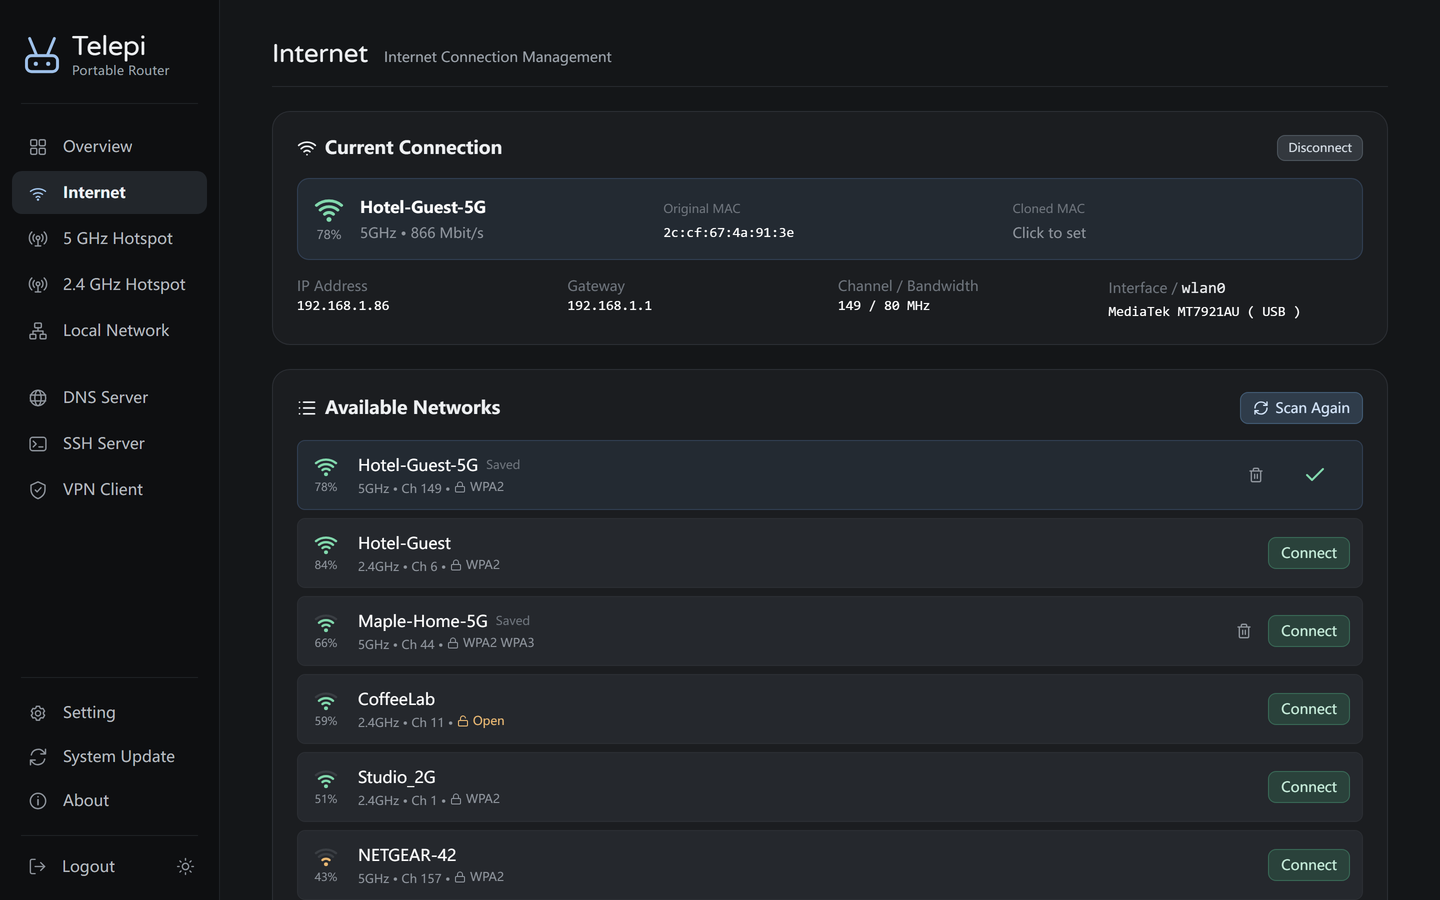
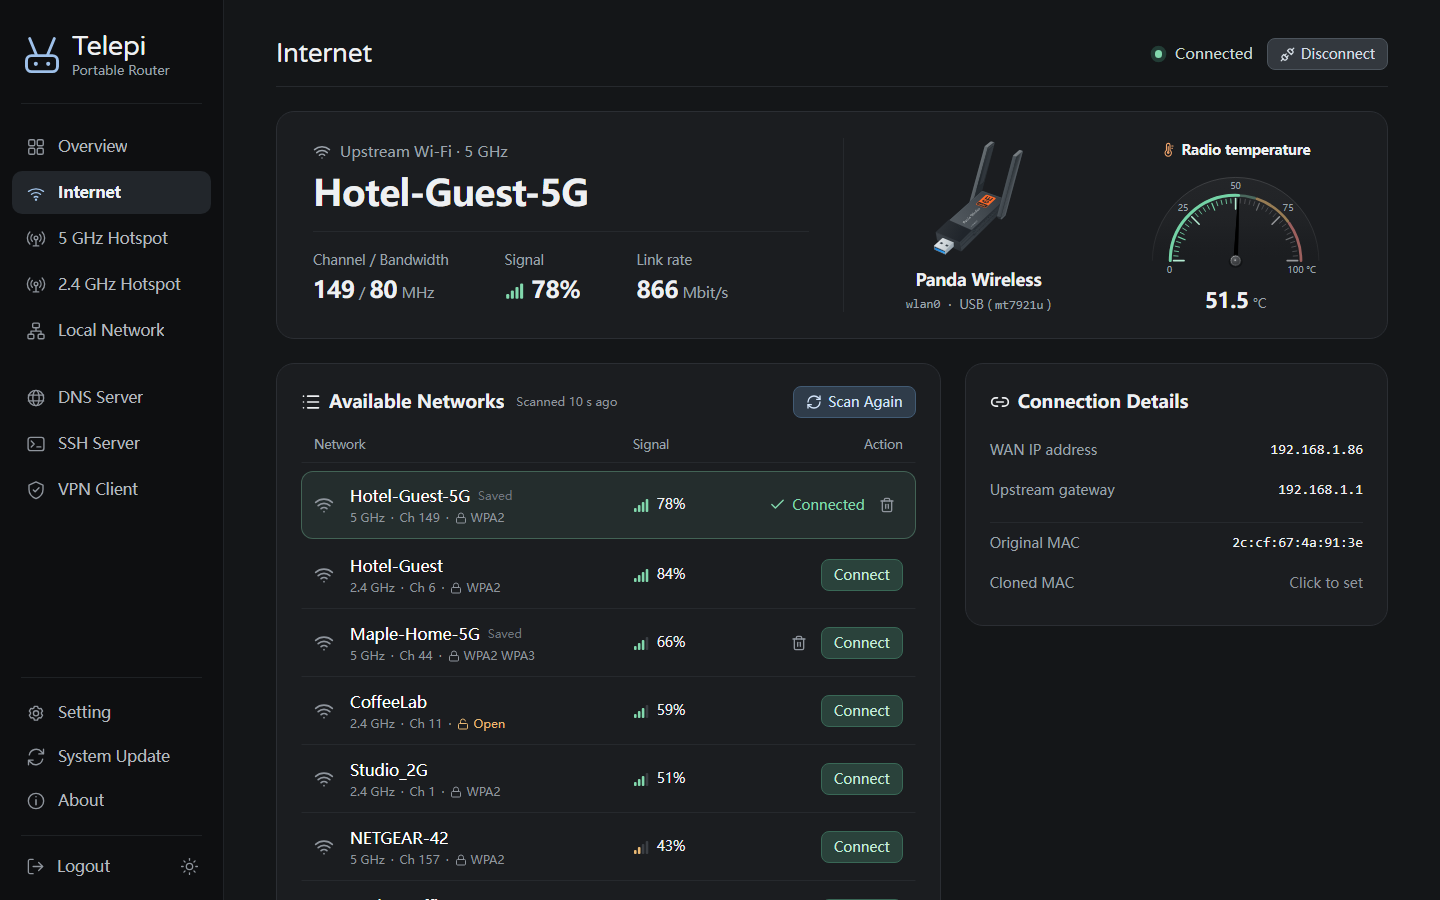
Docs: 2.1.0 page names and screenshots; three tested USB adapters
Internet and 5 GHz Hotspot screenshots now show the adapter picture and temperature. Page names follow the 2.1.0 web UI (Internet, 5 GHz Hotspot, 2.4 GHz Hotspot, Local Network, System Update).

diff --git a/docs/configuration.md b/docs/configuration.md
@@ -8,13 +8,13 @@ on first use. Full SSH access is included for anything beyond the UI.
   <img src="images/webui-dashboard.png" alt="Web UI — overview" width="720">
 </p>
 
-The **Overview** page shows the four things that matter at the top — WAN, LAN, Wi-Fi 5G and
-Wi-Fi 2.4G — with system health below.
+The **Overview** page shows the four things that matter at the top — the upstream connection,
+your local network and the two hotspots — with system health below.
 
-## WAN — the upstream connection
+## Internet — the upstream connection
 
 <p align="center">
-  <img src="images/webui-wan.png" alt="Web UI — WAN" width="720">
+  <img src="images/webui-wan.png" alt="Web UI — Internet page" width="720">
 </p>
 
 - **WiFi repeater** — scan and join any upstream WiFi (hotel, Airbnb, office, home). Networks are
@@ -27,19 +27,19 @@ Wi-Fi 2.4G — with system health below.
 A connection watchdog re-establishes a dropped upstream automatically — no manual intervention
 when the hotel AP hiccups at 3 a.m.
 
-## Wi-Fi — your own network
+## 5 GHz Hotspot and 2.4 GHz Hotspot — your own network
 
 <p align="center">
-  <img src="images/webui-wifi.png" alt="Web UI — Wi-Fi 5G" width="720">
+  <img src="images/webui-wifi.png" alt="Web UI — 5 GHz Hotspot page" width="720">
 </p>
 
-- **Wi-Fi 5G** and **Wi-Fi 2.4G** are two separate hotspots; set each one's name, password and
+- **5 GHz Hotspot** and **2.4 GHz Hotspot** are two separate hotspots; set each one's name, password and
   channel independently, or switch one off.
 - Each page lists the devices currently connected.
 - Channels are chosen automatically, and the 5G hotspot moves out of the way if it would
   collide with the upstream network.
 
-## LAN
+## Local Network
 
 - Defaults to `192.168.111.0/24` with the router at `192.168.111.200`.
 - Change the subnet, router address and DHCP range if they collide with an upstream network.
@@ -84,7 +84,7 @@ Turn the SSH server on or off from the **SSH Server** page. Log in as `admin`
 
 - **Setting** — interface language (English / 简体中文 / 繁體中文), web UI password, reboot,
   and system logs.
-- **Upgrade** — check for a new version and install it with one click.
+- **System Update** — check for a new version and install it with one click.
 - **About** — version information.
 
 ## Default Credentials (change these!)

diff --git a/README.md b/README.md
@@ -44,7 +44,7 @@ client can route the whole network through your VPN.
 </p>
 
 <p align="center">
-  <img src="docs/images/webui-wan.png" alt="Telepi web interface — WAN" width="720">
+  <img src="docs/images/webui-wan.png" alt="Telepi web interface — Internet page" width="720">
 </p>
 
 ## Features
@@ -66,7 +66,7 @@ client can route the whole network through your VPN.
 3. **Flash** it to a microSD card or SSD — see the [Flash Guide](docs/flash-guide.md)
 4. **Power on**, connect to the `Telepi-5G-XXXX` or `Telepi-2.4G-XXXX` WiFi hotspot (default password: `telepi.com`)
 5. Open **http://192.168.111.200:8080** and log in with `admin` / `telepi.com`
-6. Connect to your upstream WiFi on the **WAN** page, then change the default passwords
+6. Connect to your upstream WiFi on the **Internet** page, then change the default passwords
 
 From download to a working router in about ten minutes.
 

diff --git a/docs/flash-guide.md b/docs/flash-guide.md
@@ -71,14 +71,14 @@ Use either tool — both accept `.img.xz` directly, no need to decompress:
   <img src="images/webui-login.png" alt="Web UI — login" width="480">
 </p>
 
-3. Open the **WAN** page, pick your upstream WiFi and enter its password
+3. Open the **Internet** page, pick your upstream WiFi and enter its password
    (or plug an uplink cable into the Ethernet port)
 
 <p align="center">
-  <img src="images/webui-wan.png" alt="Web UI — WAN" width="720">
+  <img src="images/webui-wan.png" alt="Web UI — Internet page" width="720">
 </p>
 
-4. Change the defaults: hotspot passwords on the **Wi-Fi 5G** / **Wi-Fi 2.4G** pages,
+4. Change the defaults: hotspot passwords on the **5 GHz Hotspot** / **2.4 GHz Hotspot** pages,
    the web UI password on the **Setting** page
 
 That's it — your private network is live. Continue with the

diff --git a/docs/hardware.md b/docs/hardware.md
@@ -75,9 +75,9 @@ in Telepi OS).
 | <img src="images/hardware/tp-link-archer-txe50uh.svg" width="90" alt="TP-Link Archer TXE50UH"> | TP-Link | Archer TXE50UH AXE3000 | MT7921AU |
 | <img src="images/hardware/brostrend-axe3000.svg" width="90" alt="BrosTrend AXE3000"> | BrosTrend | AXE3000 | MT7921AU |
 
-Telepi is built and tested with the Panda. The others use the same chip and are expected to
-work the same way. Check the exact model name before buying: similar names can hide a
-different chip.
+Telepi is built and tested with the Panda PAU0F, ALFA AWUS036AXML and EDUP AX3000M.
+The other three use the same chip and are expected to work the same way. Check the exact
+model name before buying: similar names can hide a different chip.
 
 ## Assembly Notes
 
